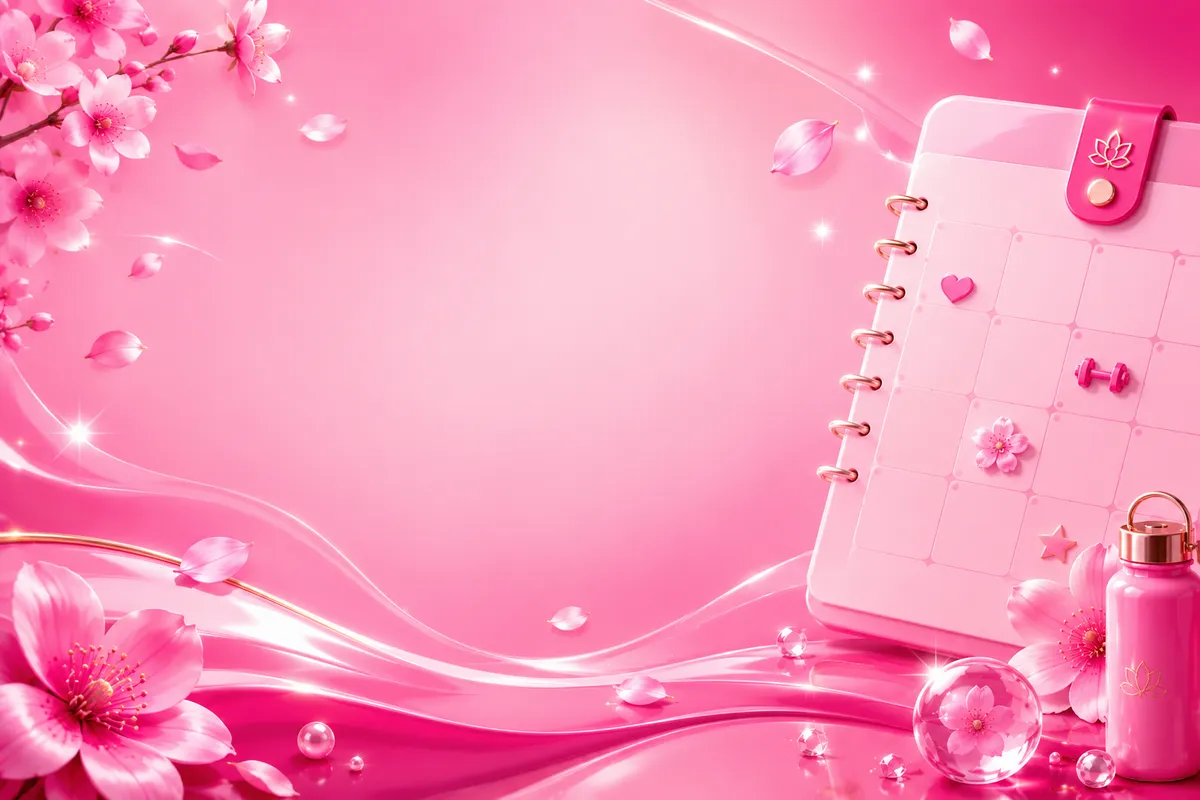
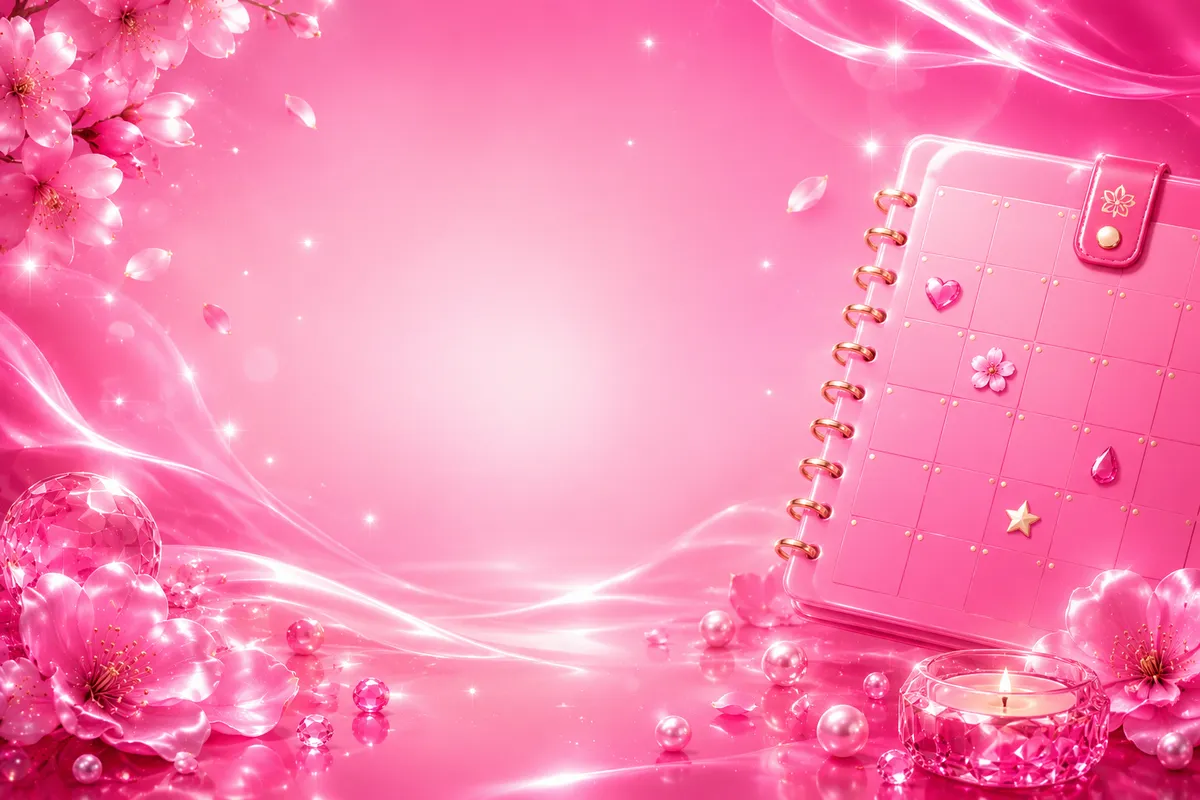
Shop & Calendar heroes: use the uploaded pink photo backgrounds
- Shop hero: soft pink beauty photo as the background (webp) with a light left
  overlay + white text-shadow so the hotpink title stays crisp.
- Calendar hero: swap the background photo for the newer vibrant pink planner
  image (same filename, so no code change).

Claude-Session: https://claude.ai/code/session_01H9rYbkvuuGmKAUXivQ4W6X

diff --git a/src/pages/app.shop.tsx b/src/pages/app.shop.tsx
@@ -113,12 +113,14 @@ export default function ShopPage() {
       <div>
         {/* HERO */}
         <section className="relative animate-card-pop-in" style={{ animationDelay: "0ms" }}>
-          <div className="animate-card-breathe pearl-frame relative overflow-hidden rounded-[1.75rem] sm:rounded-[2.5rem]" style={{ background: "linear-gradient(135deg,#FFF1F8 0%,#FFE1EF 60%,#FFD2E8 100%)" }}>
+          <div className="animate-card-breathe pearl-frame relative overflow-hidden rounded-[1.75rem] sm:rounded-[2.5rem]">
+            <img src="/images/shop-hero-bg.webp" alt="" className="absolute inset-0 h-full w-full object-cover object-center" referrerPolicy="no-referrer" />
+            <div className="absolute inset-0 bg-gradient-to-r from-white/55 via-white/15 to-transparent" />
             <div className="relative z-[2] px-4 py-5 sm:px-10 sm:py-11 max-w-md">
-              <h1 className="font-script text-4xl sm:text-6xl lg:text-7xl text-hotpink leading-none flex items-center gap-2">
+              <h1 className="font-script text-4xl sm:text-6xl lg:text-7xl text-hotpink leading-none flex items-center gap-2" style={{ textShadow: "0 1px 6px rgba(255,255,255,0.9)" }}>
                 Bloom Boutique <Sparkles className="h-6 w-6 sm:h-9 sm:w-9" strokeWidth={1.8} />
               </h1>
-              <p className="mt-1.5 sm:mt-3 text-xs sm:text-base text-rose/90">Curated treasures for your softest era ✿</p>
+              <p className="mt-1.5 sm:mt-3 text-xs sm:text-base font-medium text-rose/90" style={{ textShadow: "0 1px 5px rgba(255,255,255,0.85)" }}>Curated treasures for your softest era ✿</p>
               <p className="mt-1 sm:mt-2 text-[10px] sm:text-xs font-bold uppercase tracking-wider text-hotpink/80">
                 Beauty • Wellness • Self-care • Cycle Care
               </p>